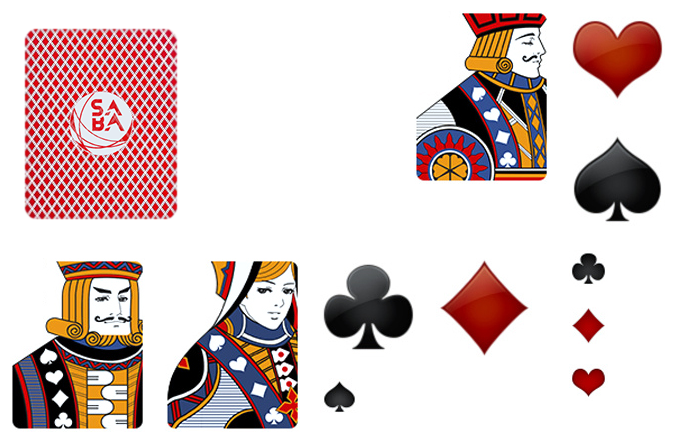
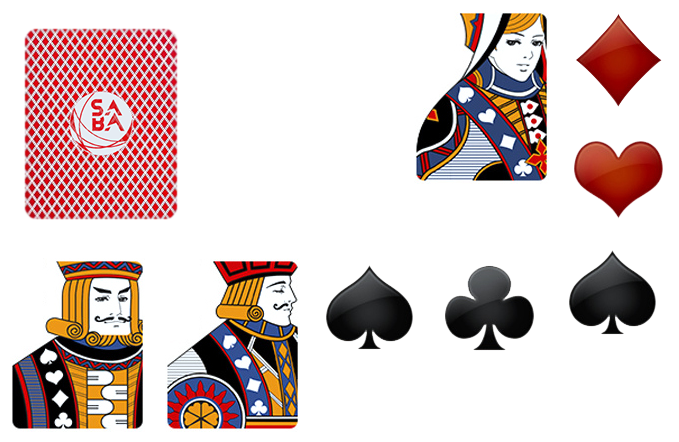
update card

diff --git a/src/assets/components/_card.scss b/src/assets/components/_card.scss
@@ -2,74 +2,59 @@
     background: url("/static/images/cards.png") no-repeat center;
 }
 
-.card-back-1 {
-    @extend %card;
-    width: 182px;
-    height: 228px;
-    background-position: -10px -10px;
-}
-
 .card-club {
     @extend %card;
-    width: 96px;
+    width: 100px;
     height: 100px;
-    background-position: -320px -258px;
+    background-position: -440px -258px;
 }
 
 .card-club-small {
-    @extend %card;
-    width: 39px;
-    height: 37px;
-    background-position: -569px -250px;
+    @extend .card-club;
+    transform: scale(0.4);
 }
 
 .card-diamond {
     @extend %card;
-    width: 96px;
-    height: 100px;
-    background-position: -436px -258px;
-}
-
-.card-diamond-small {
-    @extend %card;
-    width: 39px;
-    height: 37px;
-    background-position: -569px -307px;
-}
-
-.card-heart {
-    @extend %card;
-    width: 96px;
+    width: 100px;
     height: 100px;
     background-position: -569px -10px;
 }
 
-.card-heart-small {
-    @extend %card;
-    width: 39px;
-    height: 37px;
-    background-position: -569px -364px;
+.card-diamond-small {
+    @extend .card-diamond;
+    transform: scale(0.4);
 }
 
-.card-spade {
+.card-heart {
     @extend %card;
-    width: 96px;
+    width: 100px;
     height: 100px;
     background-position: -569px -130px;
 }
 
-.card-spade-small {
+.card-heart-small {
+    @extend .card-heart;
+    transform: scale(0.4);
+}
+
+.card-spade {
     @extend %card;
-    width: 39px;
-    height: 37px;
-    background-position: -320px -378px;
+    width: 100px;
+    height: 100px;
+    background-position: -320px -258px;
+}
+
+.card-spade-small {
+    @extend .card-spade;
+    transform: scale(0.4);
 }
 
 .card-j-picture {
     @extend %card;
     width: 135px;
     height: 174px;
-    background-position: -414px -10px;
+    background-position: -165px -258px;
 }
 
 .card-k-picture {
@@ -83,11 +68,12 @@
     @extend %card;
     width: 135px;
     height: 174px;
-    background-position: -165px -258px;
+    background-position: -414px -10px;
 }
 
 .card-bg {
     @extend %card;
+    position: relative;
     width: 182px;
     height: 228px;
     background-position: -212px -10px;

diff --git a/src/components/shared/card/card.module.scss b/src/components/shared/card/card.module.scss
@@ -4,6 +4,23 @@
 .card {
     position: relative;
     z-index: 1;
+
+    &.small {
+        transform: scale(0.2);
+        height: 4.1rem;
+        width: 3.8rem;
+        position: relative;
+        top: -1.8rem;
+        left: -1.4rem;
+
+        .card-shadow {
+            left: 1.3rem;
+            right: -13.2rem;
+            top: 1.8rem;
+            bottom: -17rem;
+            box-shadow: 0 0 1rem rgb(0 0 0 / 25%);
+        }
+    }
 }
 
 .card-shadow {
@@ -27,19 +44,22 @@
 .card-group-left {
     position: absolute;
     z-index: 2;
-    left: 2rem;
-    top: 1.8rem;
+    left: -0.5rem;
+    top: 2.5rem;
 
     .card-number {
-        font-size: 4.4rem;
+        position: relative;
+        top: 6px;
+        font-size: 4rem;
         font-weight: bold;
-        font-family: Arial;
+        font-family: "CardFont";
         text-align: center;
         line-height: 1;
     }
 
     .card-suite-small {
-        display: block;
+        position: relative;
+        top: -2.8rem;
     }
 }
 
@@ -47,11 +67,11 @@
     position: absolute;
     z-index: 1;
     right: 2rem;
-    bottom: 2rem;
+    bottom: 3rem;
 
     .card-picture {
         position: relative;
-        top: -0.2rem;
-        right: 0;
+        right: 0.2rem;
+        top: 0.4rem;
     }
 }

diff --git a/src/components/shared/card/index.tsx b/src/components/shared/card/index.tsx
@@ -22,9 +22,9 @@ export const convertRank = (num: number): string => {
 };
 
 const Card: React.FC<Props> = (props) => {
-    const { result } = props;
+    const { result, isSmall } = props;
     return (
-        <div className={Styles["card"]}>
+        <div className={`${Styles["card"]} ${isSmall ? Styles["small"] : ""}`}>
             <div className={Styles["card-shadow"]}></div>
             <div className={Styles["card-bg"]}>
                 <div className={Styles["result"]}>
@@ -38,7 +38,7 @@ const Card: React.FC<Props> = (props) => {
                         <div
                             className={`${
                                 pictureCard[convertRank(result.card)]
-                                    ? Styles[pictureCard[convertRank(result.card)]]
+                                    ? `${Styles[pictureCard[convertRank(result.card)]]} ${Styles["card-picture"]}`
                                     : Styles[suffixClassMapping[result.type]]
                             }`}
                         ></div>

diff --git a/src/components/games/dragon-tiger/animations/dragon-tiger-animations.module.scss b/src/components/games/dragon-tiger/animations/dragon-tiger-animations.module.scss
@@ -1,5 +1,4 @@
 @import "../../../../assets/abstracts/variables";
-@import "../../../../assets/components/card";
 
 $time-draw-card-animation: 0.3s;
 
@@ -28,7 +27,10 @@ $time-result-highlight-animation: 0.2s;
 }
 
 .card-back {
-    @extend .card-back-1;
+    background: url("/static/images/cards.png") no-repeat center;
+    width: 182px;
+    height: 228px;
+    background-position: -10px -10px;
 }
 
 .draw-cards {
@@ -103,10 +105,10 @@ $time-result-highlight-animation: 0.2s;
 
     .card-back {
         position: absolute;
-        left: 2px;
-        right: 2px;
-        top: 2px;
-        bottom: 2px;
+        left: 0;
+        right: 0;
+        top: 0;
+        bottom: 0;
         z-index: 2;
         animation-name: hide-card-back-animation;
         animation-duration: $time-open-card-animation/2;

diff --git a/src/components/games/dragon-tiger/bet-history/index.tsx b/src/components/games/dragon-tiger/bet-history/index.tsx
@@ -7,8 +7,9 @@ import Card from "../../../shared/card";
 const renderResult = (bet: BetLogs) => {
     if (bet.result) {
         return (
-            <div className="d-flex justify-content-center">
-                <Card result={bet.result.dragon} isSmall={true} isAnimation={false}></Card> | <Card result={bet.result.tiger}></Card>
+            <div className="d-flex justify-content-center align-items-center">
+                <Card result={bet.result.dragon} isSmall={true} isAnimation={false}></Card> |{" "}
+                <Card result={bet.result.tiger} isSmall={true}></Card>
             </div>
         );
     }

diff --git a/src/assets/components/_fonts.scss b/src/assets/components/_fonts.scss
@@ -39,3 +39,11 @@
     font-weight: normal;
     font-display: swap;
 }
+
+@font-face {
+    font-family: "CardFont";
+    src: url("/static/fonts/CardFont.woff2") format("woff2"), url("/static/fonts/CardFont.woff") format("woff"),
+        url("/static/fonts/CardFont.ttf") format("truetype");
+    font-weight: 500;
+    font-display: swap;
+}

diff --git a/src/components/games/dragon-tiger/bet-options/bet-options.module.scss b/src/components/games/dragon-tiger/bet-options/bet-options.module.scss
@@ -25,7 +25,6 @@
 }
 
 .icon {
-    margin-bottom: 1rem;
     font-size: 9rem;
 }
 
